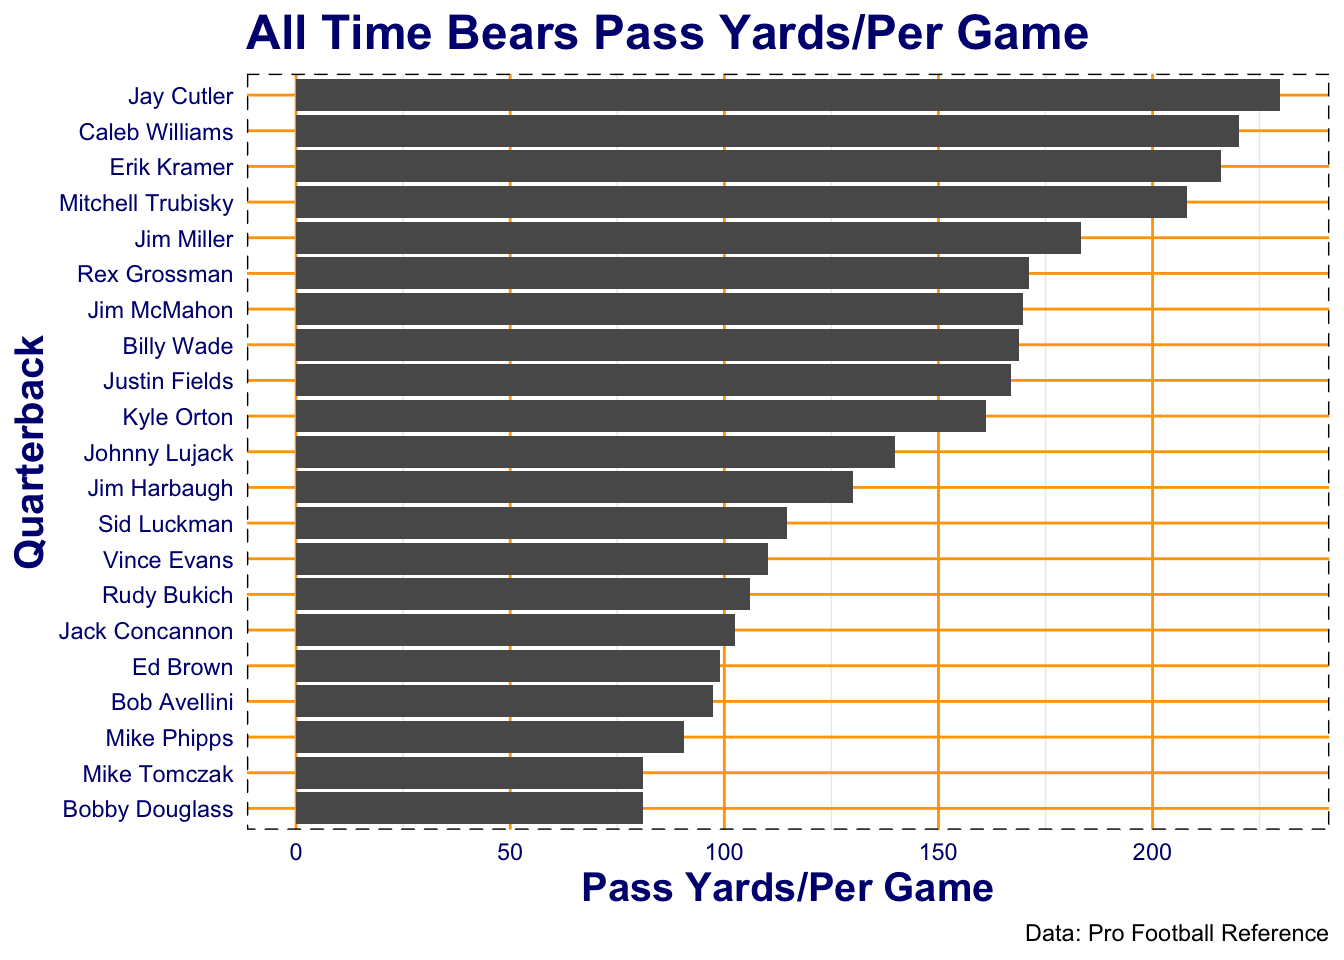
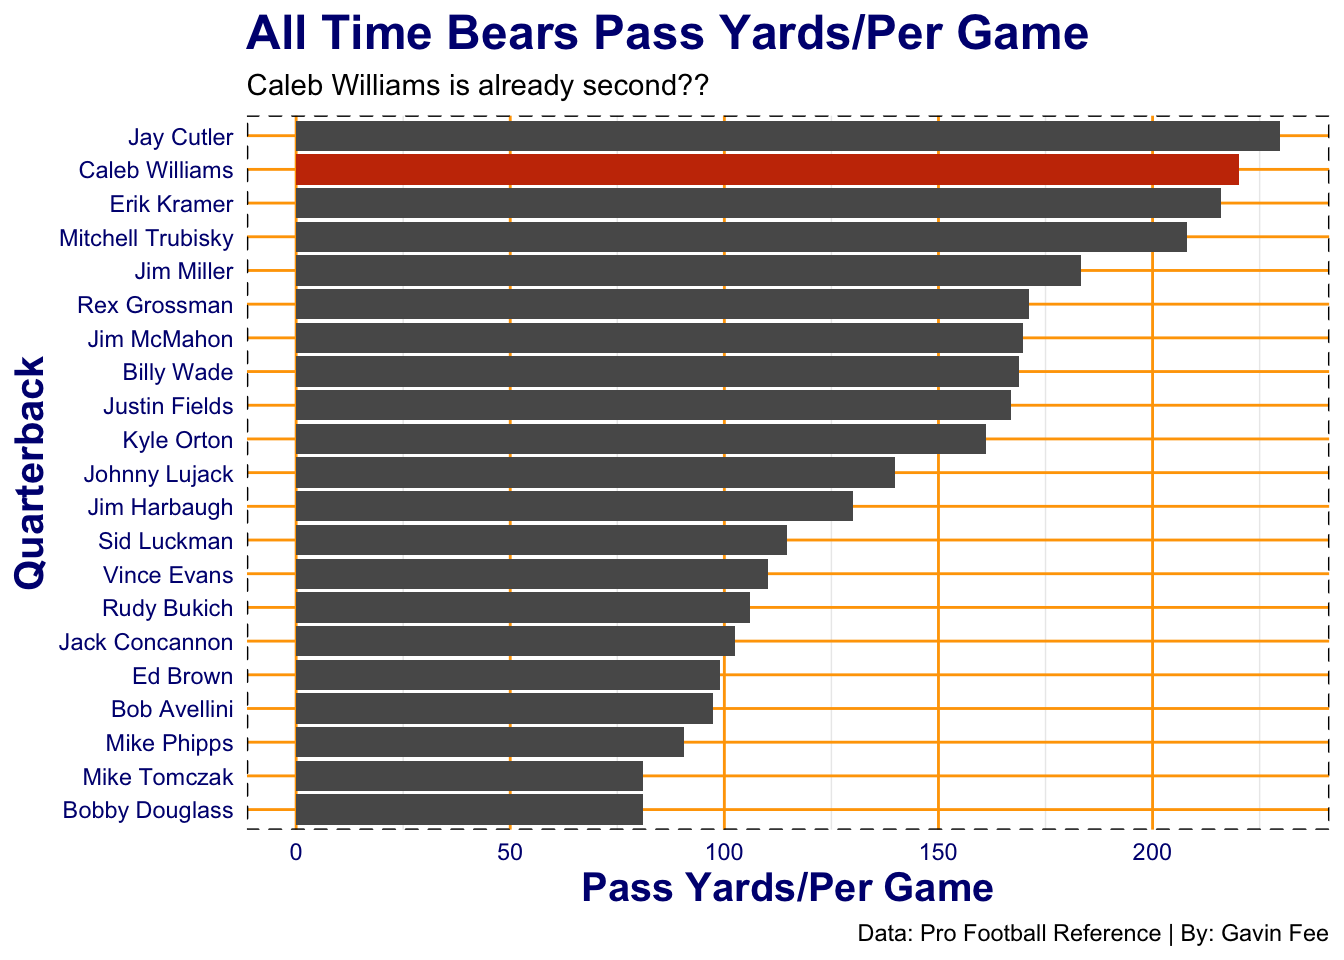
more fixes

Changed region(s): [[0.0312, 0.0625, 1.0, 0.875], [0.625, 0.9688, 0.9688, 1.0], [0.0, 0.3438, 0.0312, 0.625]]

diff --git a/posts/why-caleb-williams-is-scary/index.html b/posts/why-caleb-williams-is-scary/index.html
@@ -359,6 +359,7 @@ pre > code.sourceCode > span > a:first-child::before { text-decoration: underlin
 
 
 
+<p>Caleb Williams, the 23-year-old Chicago Bears Quarterback, is WAY scarier than you think.</p>
 <div class="cell">
 <details class="code-fold">
 <summary>Code</summary>
@@ -381,7 +382,6 @@ pre > code.sourceCode > span > a:first-child::before { text-decoration: underlin
 <div class="code-copy-outer-scaffold"><div class="sourceCode cell-code" id="cb3"><pre class="sourceCode r code-with-copy"><code class="sourceCode r"><span id="cb3-1"><a href="#cb3-1" aria-hidden="true" tabindex="-1"></a><span class="fu">library</span>(nflreadr)</span></code></pre></div><button title="Copy to Clipboard" class="code-copy-button"><i class="bi"></i></button></div>
 </details>
 </div>
-<p>Caleb Williams, the 23-year-old Chicago Bears Quarterback, is WAY scarier than you think.</p>
 <div class="cell">
 <details class="code-fold">
 <summary>Code</summary>
@@ -411,29 +411,42 @@ Specify the column types or set `show_col_types = FALSE` to quiet this message.
 <span id="cb6-8"><a href="#cb6-8" aria-hidden="true" tabindex="-1"></a>  ypg <span class="sc">&gt;=</span> <span class="dv">80</span></span>
 <span id="cb6-9"><a href="#cb6-9" aria-hidden="true" tabindex="-1"></a>         )</span>
 <span id="cb6-10"><a href="#cb6-10" aria-hidden="true" tabindex="-1"></a></span>
-<span id="cb6-11"><a href="#cb6-11" aria-hidden="true" tabindex="-1"></a><span class="fu">ggplot</span>() <span class="sc">+</span></span>
-<span id="cb6-12"><a href="#cb6-12" aria-hidden="true" tabindex="-1"></a>  <span class="fu">geom_bar</span>(</span>
-<span id="cb6-13"><a href="#cb6-13" aria-hidden="true" tabindex="-1"></a>    <span class="at">data =</span> bearsqb_30,</span>
-<span id="cb6-14"><a href="#cb6-14" aria-hidden="true" tabindex="-1"></a>    <span class="fu">aes</span>(</span>
-<span id="cb6-15"><a href="#cb6-15" aria-hidden="true" tabindex="-1"></a>      <span class="at">x =</span> <span class="fu">reorder</span>(Player, ypg),</span>
-<span id="cb6-16"><a href="#cb6-16" aria-hidden="true" tabindex="-1"></a>      <span class="at">weight =</span> ypg</span>
-<span id="cb6-17"><a href="#cb6-17" aria-hidden="true" tabindex="-1"></a>    )</span>
-<span id="cb6-18"><a href="#cb6-18" aria-hidden="true" tabindex="-1"></a>  ) <span class="sc">+</span></span>
-<span id="cb6-19"><a href="#cb6-19" aria-hidden="true" tabindex="-1"></a>  <span class="fu">coord_flip</span>() <span class="sc">+</span></span>
-<span id="cb6-20"><a href="#cb6-20" aria-hidden="true" tabindex="-1"></a>  <span class="fu">labs</span>(</span>
-<span id="cb6-21"><a href="#cb6-21" aria-hidden="true" tabindex="-1"></a>    <span class="at">title =</span> <span class="st">"All Time Bears Pass Yards/Per Game"</span>,</span>
-<span id="cb6-22"><a href="#cb6-22" aria-hidden="true" tabindex="-1"></a>    <span class="at">x =</span> <span class="st">"Quarterback"</span>,</span>
-<span id="cb6-23"><a href="#cb6-23" aria-hidden="true" tabindex="-1"></a>    <span class="at">y =</span> <span class="st">"Pass Yards/Per Game"</span>,</span>
-<span id="cb6-24"><a href="#cb6-24" aria-hidden="true" tabindex="-1"></a>    <span class="at">caption =</span> <span class="st">"Data: Pro Football Reference"</span></span>
-<span id="cb6-25"><a href="#cb6-25" aria-hidden="true" tabindex="-1"></a>  ) <span class="sc">+</span></span>
-<span id="cb6-26"><a href="#cb6-26" aria-hidden="true" tabindex="-1"></a>  <span class="fu">theme_minimal</span>() <span class="sc">+</span></span>
-<span id="cb6-27"><a href="#cb6-27" aria-hidden="true" tabindex="-1"></a>  <span class="fu">theme</span>(</span>
-<span id="cb6-28"><a href="#cb6-28" aria-hidden="true" tabindex="-1"></a>    <span class="at">title =</span> <span class="fu">element_text</span>(<span class="at">color =</span> <span class="st">"navy"</span>, <span class="at">size =</span> <span class="dv">15</span>, <span class="at">face =</span> <span class="st">"bold"</span>),</span>
-<span id="cb6-29"><a href="#cb6-29" aria-hidden="true" tabindex="-1"></a>    <span class="at">plot.background =</span> <span class="fu">element_rect</span>(<span class="at">fill =</span> <span class="st">"000000"</span>),</span>
-<span id="cb6-30"><a href="#cb6-30" aria-hidden="true" tabindex="-1"></a>    <span class="at">panel.border =</span> <span class="fu">element_rect</span>(<span class="at">linetype =</span> <span class="st">"dashed"</span>, <span class="at">fill =</span> <span class="cn">NA</span>),</span>
-<span id="cb6-31"><a href="#cb6-31" aria-hidden="true" tabindex="-1"></a>    <span class="at">panel.grid.major =</span> <span class="fu">element_line</span>(<span class="at">colour =</span> <span class="st">"orange"</span>),</span>
-<span id="cb6-32"><a href="#cb6-32" aria-hidden="true" tabindex="-1"></a>    <span class="at">axis.text =</span> <span class="fu">element_text</span>(<span class="at">color =</span> <span class="st">"navy"</span>)</span>
-<span id="cb6-33"><a href="#cb6-33" aria-hidden="true" tabindex="-1"></a>  )</span></code></pre></div><button title="Copy to Clipboard" class="code-copy-button"><i class="bi"></i></button></div>
+<span id="cb6-11"><a href="#cb6-11" aria-hidden="true" tabindex="-1"></a>caleb <span class="ot">&lt;-</span> bearsqb_30 <span class="sc">|&gt;</span></span>
+<span id="cb6-12"><a href="#cb6-12" aria-hidden="true" tabindex="-1"></a>  <span class="fu">filter</span>(Player <span class="sc">==</span> <span class="st">"Caleb Williams"</span>)</span>
+<span id="cb6-13"><a href="#cb6-13" aria-hidden="true" tabindex="-1"></a></span>
+<span id="cb6-14"><a href="#cb6-14" aria-hidden="true" tabindex="-1"></a></span>
+<span id="cb6-15"><a href="#cb6-15" aria-hidden="true" tabindex="-1"></a><span class="fu">ggplot</span>() <span class="sc">+</span></span>
+<span id="cb6-16"><a href="#cb6-16" aria-hidden="true" tabindex="-1"></a>  <span class="fu">geom_bar</span>(</span>
+<span id="cb6-17"><a href="#cb6-17" aria-hidden="true" tabindex="-1"></a>    <span class="at">data =</span> bearsqb_30,</span>
+<span id="cb6-18"><a href="#cb6-18" aria-hidden="true" tabindex="-1"></a>    <span class="fu">aes</span>(</span>
+<span id="cb6-19"><a href="#cb6-19" aria-hidden="true" tabindex="-1"></a>      <span class="at">x =</span> <span class="fu">reorder</span>(Player, ypg),</span>
+<span id="cb6-20"><a href="#cb6-20" aria-hidden="true" tabindex="-1"></a>      <span class="at">weight =</span> ypg</span>
+<span id="cb6-21"><a href="#cb6-21" aria-hidden="true" tabindex="-1"></a>    )</span>
+<span id="cb6-22"><a href="#cb6-22" aria-hidden="true" tabindex="-1"></a>  ) <span class="sc">+</span> </span>
+<span id="cb6-23"><a href="#cb6-23" aria-hidden="true" tabindex="-1"></a>  <span class="fu">geom_bar</span>(</span>
+<span id="cb6-24"><a href="#cb6-24" aria-hidden="true" tabindex="-1"></a>    <span class="at">data =</span> caleb,</span>
+<span id="cb6-25"><a href="#cb6-25" aria-hidden="true" tabindex="-1"></a>    <span class="fu">aes</span>(</span>
+<span id="cb6-26"><a href="#cb6-26" aria-hidden="true" tabindex="-1"></a>      <span class="at">x =</span> <span class="fu">reorder</span>(Player, ypg),</span>
+<span id="cb6-27"><a href="#cb6-27" aria-hidden="true" tabindex="-1"></a>      <span class="at">weight =</span> ypg</span>
+<span id="cb6-28"><a href="#cb6-28" aria-hidden="true" tabindex="-1"></a>    ),</span>
+<span id="cb6-29"><a href="#cb6-29" aria-hidden="true" tabindex="-1"></a>    <span class="at">fill =</span> <span class="st">"#C83803"</span></span>
+<span id="cb6-30"><a href="#cb6-30" aria-hidden="true" tabindex="-1"></a>  ) <span class="sc">+</span></span>
+<span id="cb6-31"><a href="#cb6-31" aria-hidden="true" tabindex="-1"></a>  <span class="fu">coord_flip</span>() <span class="sc">+</span></span>
+<span id="cb6-32"><a href="#cb6-32" aria-hidden="true" tabindex="-1"></a>  <span class="fu">labs</span>(</span>
+<span id="cb6-33"><a href="#cb6-33" aria-hidden="true" tabindex="-1"></a>    <span class="at">title =</span> <span class="st">"All Time Bears Pass Yards/Per Game"</span>,</span>
+<span id="cb6-34"><a href="#cb6-34" aria-hidden="true" tabindex="-1"></a>    <span class="at">subtitle =</span> <span class="st">"Caleb Williams is already second??"</span>,</span>
+<span id="cb6-35"><a href="#cb6-35" aria-hidden="true" tabindex="-1"></a>    <span class="at">x =</span> <span class="st">"Quarterback"</span>,</span>
+<span id="cb6-36"><a href="#cb6-36" aria-hidden="true" tabindex="-1"></a>    <span class="at">y =</span> <span class="st">"Pass Yards/Per Game"</span>,</span>
+<span id="cb6-37"><a href="#cb6-37" aria-hidden="true" tabindex="-1"></a>    <span class="at">caption =</span> <span class="st">"Data: Pro Football Reference | By: Gavin Fee"</span></span>
+<span id="cb6-38"><a href="#cb6-38" aria-hidden="true" tabindex="-1"></a>  ) <span class="sc">+</span></span>
+<span id="cb6-39"><a href="#cb6-39" aria-hidden="true" tabindex="-1"></a>  <span class="fu">theme_minimal</span>() <span class="sc">+</span></span>
+<span id="cb6-40"><a href="#cb6-40" aria-hidden="true" tabindex="-1"></a>  <span class="fu">theme</span>(</span>
+<span id="cb6-41"><a href="#cb6-41" aria-hidden="true" tabindex="-1"></a>    <span class="at">title =</span> <span class="fu">element_text</span>(<span class="at">color =</span> <span class="st">"navy"</span>, <span class="at">size =</span> <span class="dv">15</span>, <span class="at">face =</span> <span class="st">"bold"</span>),</span>
+<span id="cb6-42"><a href="#cb6-42" aria-hidden="true" tabindex="-1"></a>    <span class="at">plot.background =</span> <span class="fu">element_rect</span>(<span class="at">fill =</span> <span class="st">"000000"</span>),</span>
+<span id="cb6-43"><a href="#cb6-43" aria-hidden="true" tabindex="-1"></a>    <span class="at">panel.border =</span> <span class="fu">element_rect</span>(<span class="at">linetype =</span> <span class="st">"dashed"</span>, <span class="at">fill =</span> <span class="cn">NA</span>),</span>
+<span id="cb6-44"><a href="#cb6-44" aria-hidden="true" tabindex="-1"></a>    <span class="at">panel.grid.major =</span> <span class="fu">element_line</span>(<span class="at">colour =</span> <span class="st">"orange"</span>),</span>
+<span id="cb6-45"><a href="#cb6-45" aria-hidden="true" tabindex="-1"></a>    <span class="at">axis.text =</span> <span class="fu">element_text</span>(<span class="at">color =</span> <span class="st">"navy"</span>)</span>
+<span id="cb6-46"><a href="#cb6-46" aria-hidden="true" tabindex="-1"></a>  )</span></code></pre></div><button title="Copy to Clipboard" class="code-copy-button"><i class="bi"></i></button></div>
 </details>
 <div class="cell-output-display">
 <div>
@@ -443,6 +456,10 @@ Specify the column types or set `show_col_types = FALSE` to quiet this message.
 </div>
 </div>
 </div>
+<p>Now, why would I show you this? Why is it cool to brag about being second on the all-time list, especially it being a list of bears quarterbacks, who are historically bad.<br>
+<br>
+As mediocre as Jay Cutler was, did you know that the NFL’s passing numbers have gone down significantly since his time as the Bears’ Quarterback?<br>
+</p>
 
 
 

diff --git a/index.html b/index.html
@@ -373,7 +373,7 @@ window.Quarto = {
 
 <div class="quarto-listing quarto-listing-container-default" id="listing-listing">
 <div class="list quarto-listing-default">
-<div class="quarto-post image-right" data-index="0" data-categories="YmVhcnMlMkNmb290YmFsbCUyQ2NhbGVid2lsbGlhbXM=" data-listing-date-sort="1775797200000" data-listing-file-modified-sort="1775169734257" data-listing-date-modified-sort="NaN" data-listing-reading-time-sort="1" data-listing-word-count-sort="69">
+<div class="quarto-post image-right" data-index="0" data-categories="YmVhcnMlMkNmb290YmFsbCUyQ2NhbGVid2lsbGlhbXM=" data-listing-date-sort="1775797200000" data-listing-file-modified-sort="1775170513269" data-listing-date-modified-sort="NaN" data-listing-reading-time-sort="2" data-listing-word-count-sort="313">
 <div class="thumbnail"><a href="./posts/why-caleb-williams-is-scary/index.html" class="no-external">
 
 <img loading="lazy" src="./posts/why-caleb-williams-is-scary/image.jpg" class="thumbnail-image">
